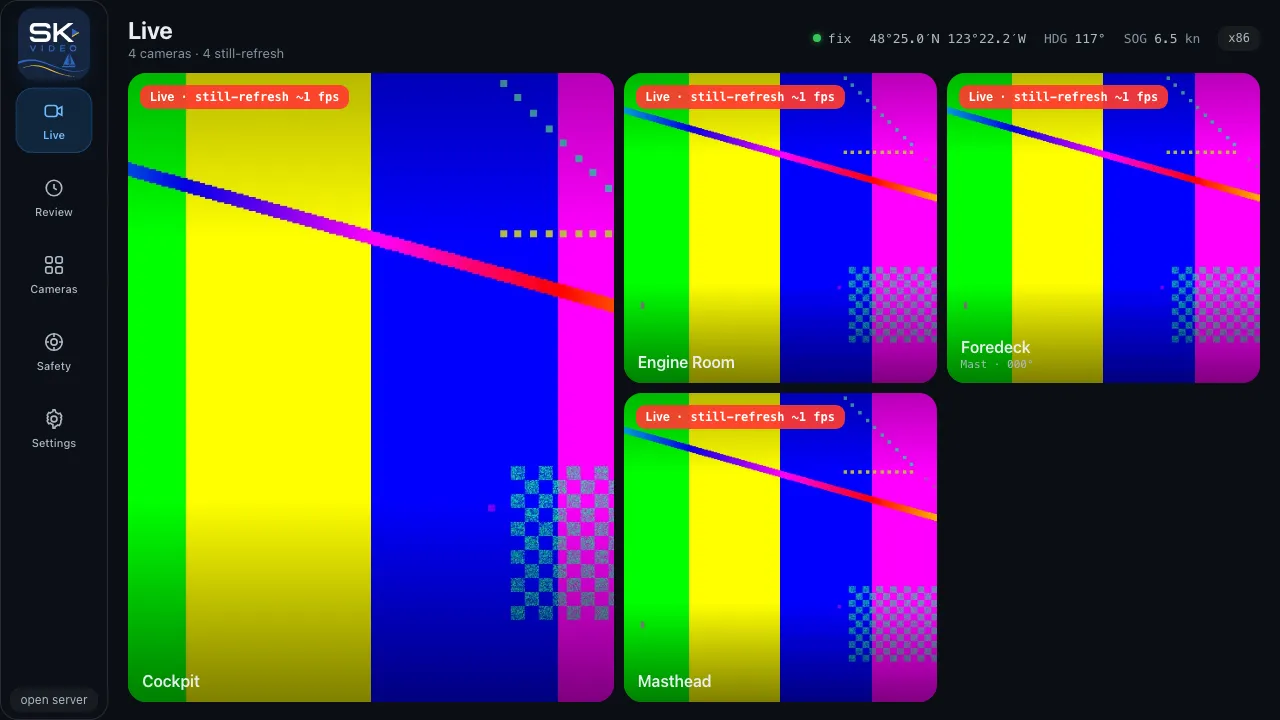
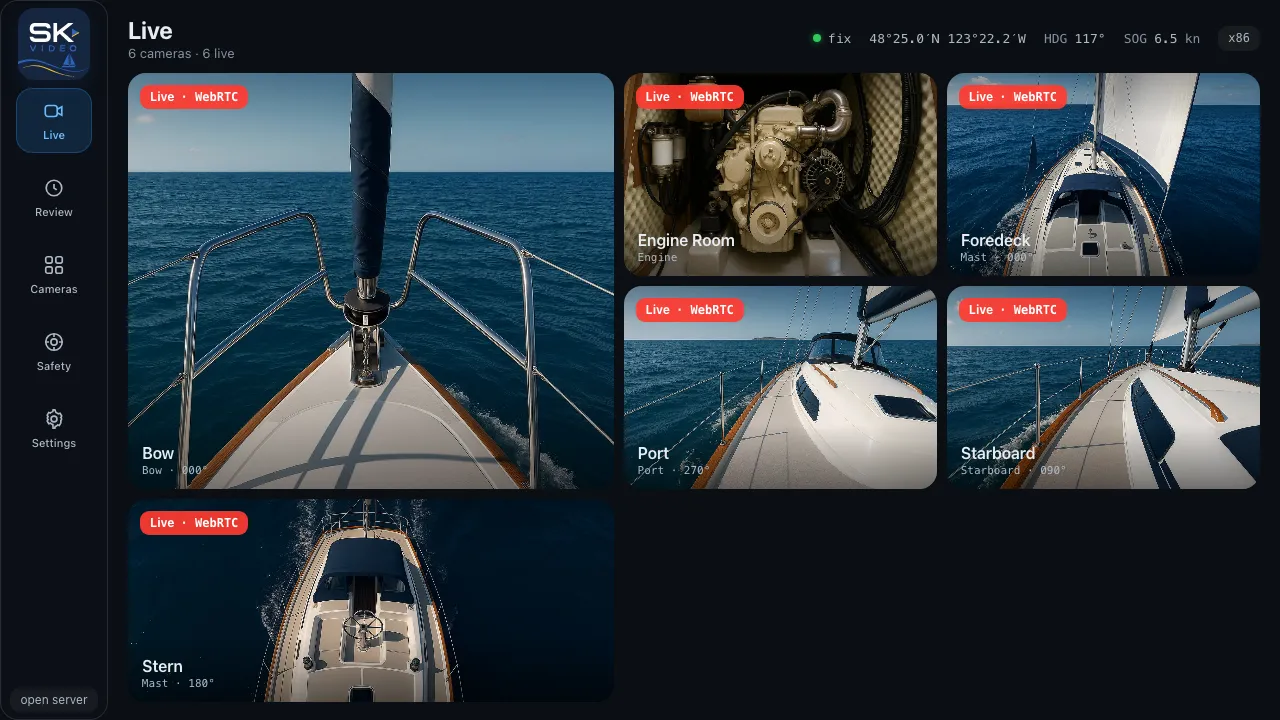
docs(images): regenerate app screenshots from the photorealistic vessel stills

diff --git a/e2e/screenshots/webapp.spec.ts b/e2e/screenshots/webapp.spec.ts
@@ -106,14 +106,22 @@ test('webapp: Live Wall', async ({ page }) => {
   await page.goto(`${APP}#/live`);
   await expect(page.getByRole('heading', { name: 'Live' })).toBeVisible();
   await expect(page.getByText('Foredeck')).toBeVisible();
-  // Wait for a tile to reach a live frame (capture-all.sh advertises a reachable WebRTC candidate, so
-  // the walk lands on WebRTC; without it, it falls to HLS/MJPEG — either way a frame flows).
+  // Wait for (nearly) every tile to reach a live frame so the happy-path shot has no "Connecting…"
+  // stragglers. capture-all.sh advertises a reachable WebRTC candidate, so the walk lands on WebRTC;
+  // without it the tiles fall to HLS/MJPEG — either way a frame flows. We poll the live-chip count up
+  // to DEMO.length and settle for the last tile, with a hard cap so a genuinely dead source can't hang.
   await page
     .locator('.chip--live')
     .first()
     .waitFor({ timeout: 40_000 })
     .catch(() => undefined);
-  await page.waitForTimeout(2500); // let the remaining tiles catch up
+  // Best-effort: wait until all tiles are live, but never fail the capture if one source stays down.
+  await page
+    .waitForFunction((n) => document.querySelectorAll('.chip--live').length >= n, DEMO.length, {
+      timeout: 40_000,
+    })
+    .catch(() => undefined);
+  await page.waitForTimeout(1500); // let the last frame paint
   await shot(page, 'app-live-wall');
 });
 
